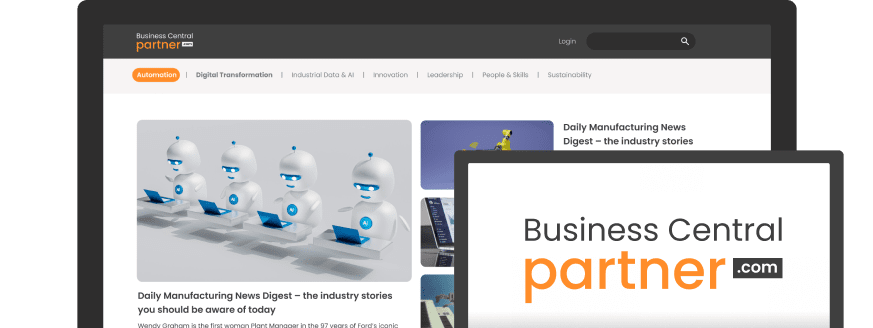
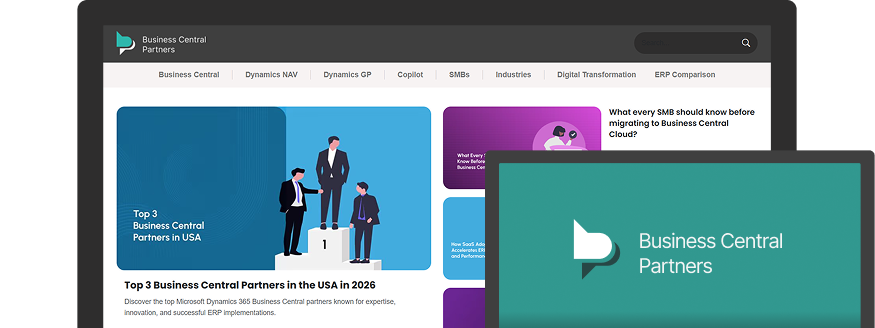
feat: Update consent message in SubscribeForm and modify privacy policy reference

diff --git a/components/FormSubscribe.js b/components/FormSubscribe.js
@@ -257,11 +257,7 @@ export default function SubscribeForm() {
 
                       <div className="col-12">
                         <div className="submitscr">
-                          <p>
-                            After submitting this form your data will be processed by Nineteen Group in accordance with our&nbsp;
-                            <a href="/privacy-policy/" target="_blank" rel="noreferrer">privacy policy</a>. If you would like to prevent your personal data from being processed in this way, please contact us on [email redacted] to update your preferences.
-                          </p>
-
+                          <p>By submitting this form, you consent to Business Central Partners processing your personal data in accordance with our <a href="/privacy-policy/" target="_blank" rel="noreferrer">privacy policy</a>. You can update your preferences or opt out of marketing communications at any time.</p>
                           <button
                             type="submit"
                             id="subscribe-button"